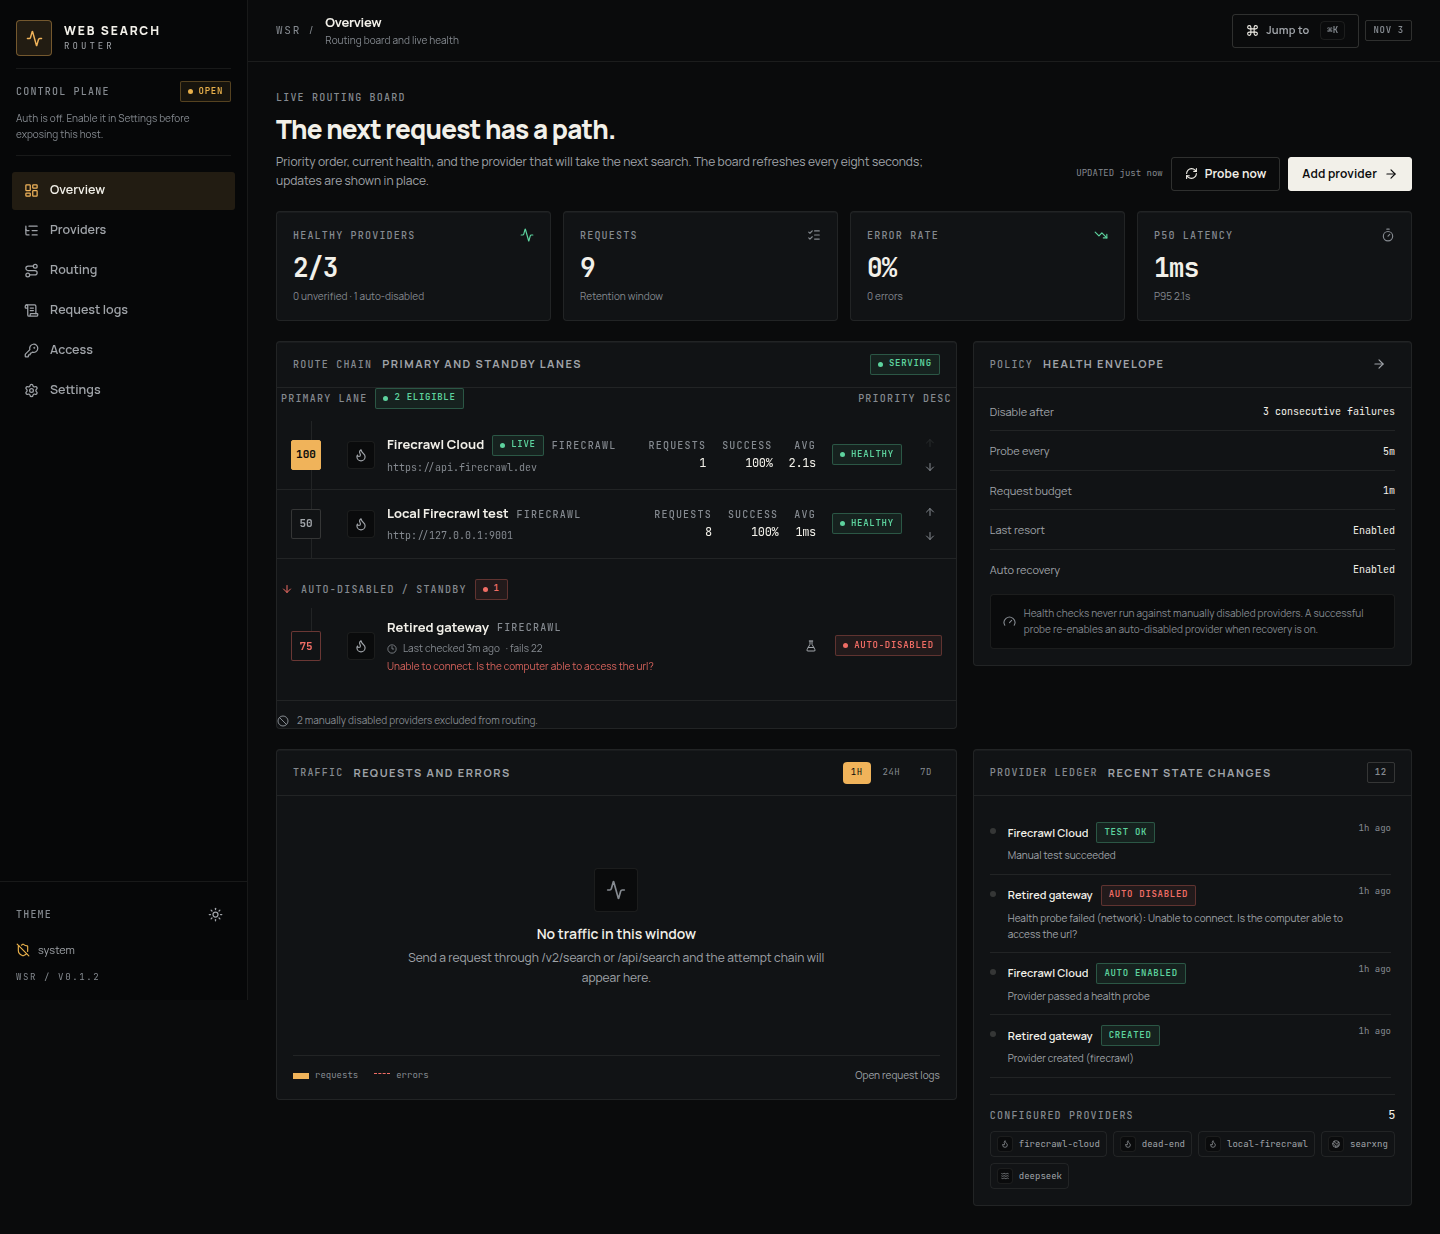
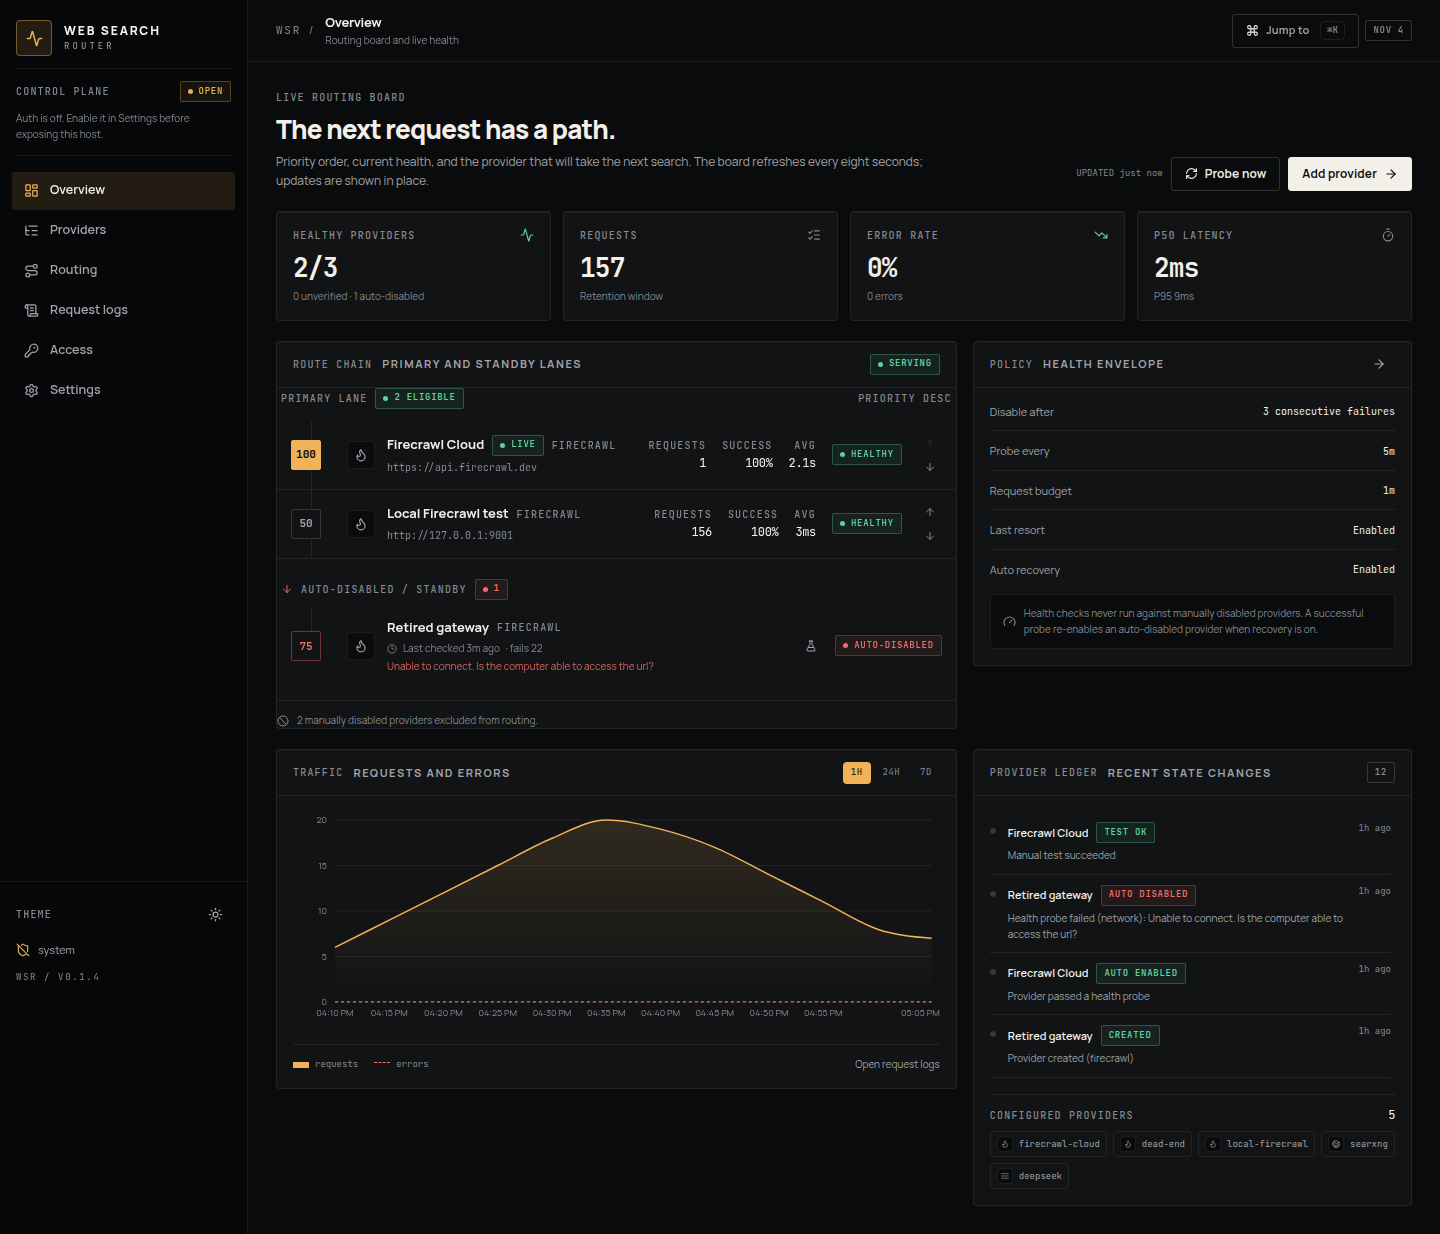
fix: keep the sidebar rail full height on long pages
The rail was a sticky 100vh element, so its ground and border stopped at
the viewport and a full-page capture showed the sidebar cut mid-page. Make
the rail a stretched grid column that reaches the page bottom and move the
sticky behavior to an inner wrapper, keeping the navigation pinned while
scrolling.

Add an E2E check that the rail covers the document height against a short
viewport, update the design and UI docs, and recapture the README overview
screenshot from the current build with seeded demo traffic.

diff --git a/src/client/components/Layout.tsx b/src/client/components/Layout.tsx
@@ -102,89 +102,91 @@ export function Layout({
         aria-label="Primary"
         aria-hidden={isMobile && !mobileOpen ? true : undefined}
       >
-        <div className="flex items-center justify-between px-4 pb-3 pt-5">
-          <button
-            onClick={() => navigate("overview")}
-            className="group flex items-center gap-3 text-left"
-            aria-label="Web Search Router home"
-          >
-            <span className="grid h-9 w-9 place-items-center rounded-sm border border-accent/40 bg-accent-soft">
-              <Activity size={17} className="text-accent" />
-            </span>
-            <span>
-              <span className="block text-[12px] font-extrabold tracking-[0.16em] text-ink">
-                WEB SEARCH
+        <div className="rail-inner">
+          <div className="flex items-center justify-between px-4 pb-3 pt-5">
+            <button
+              onClick={() => navigate("overview")}
+              className="group flex items-center gap-3 text-left"
+              aria-label="Web Search Router home"
+            >
+              <span className="grid h-9 w-9 place-items-center rounded-sm border border-accent/40 bg-accent-soft">
+                <Activity size={17} className="text-accent" />
               </span>
-              <span className="block font-mono text-[9px] tracking-[0.34em] text-muted">ROUTER</span>
-            </span>
-          </button>
-          <button
-            className="btn btn-ghost btn-icon hidden max-[980px]:inline-flex"
-            onClick={() => setMobileOpen(false)}
-            aria-label="Close navigation"
-          >
-            <X size={17} />
-          </button>
-        </div>
-
-        <div className="mx-4 mb-4 border-y border-line py-3">
-          <div className="flex items-center justify-between">
-            <span className="mono-label">Control plane</span>
-            <Badge tone={authState?.enabled ? "ok" : "warn"} dot>
-              {authState?.enabled ? "secured" : "open"}
-            </Badge>
-          </div>
-          <p className="mt-2 text-[10px] leading-relaxed text-dim">
-            {authState?.enabled
-              ? "Session and API key enforcement is active."
-              : "Auth is off. Enable it in Settings before exposing this host."}
-          </p>
-        </div>
-
-        <nav className="flex-1 space-y-0.5 px-3" aria-label="Primary">
-          {NAV_ITEMS.map((item, index) => {
-            const Icon = item.icon;
-            return (
-              <button
-                key={item.tab}
-                data-first-nav={index === 0 ? true : undefined}
-                onClick={() => navigate(item.tab)}
-                className={`nav-item w-full ${activeTab === item.tab ? "active" : ""}`}
-                aria-current={activeTab === item.tab ? "page" : undefined}
-                title={item.hint}
-              >
-                <Icon size={15} />
-                <span className="flex-1 text-left">{item.label}</span>
-              </button>
-            );
-          })}
-        </nav>
-
-        <div className="space-y-3 border-t border-line p-4">
-          <div className="flex items-center justify-between">
-            <span className="mono-label">Theme</span>
-            <button className="btn btn-ghost btn-icon" onClick={toggle} aria-label="Toggle theme">
-              {theme === "dark" ? <Sun size={15} /> : <Moon size={15} />}
+              <span>
+                <span className="block text-[12px] font-extrabold tracking-[0.16em] text-ink">
+                  WEB SEARCH
+                </span>
+                <span className="block font-mono text-[9px] tracking-[0.34em] text-muted">ROUTER</span>
+              </span>
+            </button>
+            <button
+              className="btn btn-ghost btn-icon hidden max-[980px]:inline-flex"
+              onClick={() => setMobileOpen(false)}
+              aria-label="Close navigation"
+            >
+              <X size={17} />
             </button>
           </div>
-          <div className="flex items-center justify-between gap-2">
-            <div className="flex min-w-0 items-center gap-2">
-              {authState?.enabled ? (
-                <ShieldCheck size={14} className="shrink-0 status-ok" />
-              ) : (
-                <ShieldOff size={14} className="shrink-0 status-warn" />
-              )}
-              <span className="truncate text-[11px] text-muted">
-                {authState?.user?.username ?? "not signed in"}
-              </span>
+
+          <div className="mx-4 mb-4 border-y border-line py-3">
+            <div className="flex items-center justify-between">
+              <span className="mono-label">Control plane</span>
+              <Badge tone={authState?.enabled ? "ok" : "warn"} dot>
+                {authState?.enabled ? "secured" : "open"}
+              </Badge>
             </div>
-            {authState?.enabled ? (
-              <button className="btn btn-ghost btn-icon" onClick={onLogout} aria-label="Sign out">
-                <LogOut size={14} />
-              </button>
-            ) : null}
+            <p className="mt-2 text-[10px] leading-relaxed text-dim">
+              {authState?.enabled
+                ? "Session and API key enforcement is active."
+                : "Auth is off. Enable it in Settings before exposing this host."}
+            </p>
           </div>
-          <p className="font-mono text-[9px] tracking-[0.18em] text-dim">WSR / V{APP_VERSION}</p>
+
+          <nav className="flex-1 space-y-0.5 px-3" aria-label="Primary">
+            {NAV_ITEMS.map((item, index) => {
+              const Icon = item.icon;
+              return (
+                <button
+                  key={item.tab}
+                  data-first-nav={index === 0 ? true : undefined}
+                  onClick={() => navigate(item.tab)}
+                  className={`nav-item w-full ${activeTab === item.tab ? "active" : ""}`}
+                  aria-current={activeTab === item.tab ? "page" : undefined}
+                  title={item.hint}
+                >
+                  <Icon size={15} />
+                  <span className="flex-1 text-left">{item.label}</span>
+                </button>
+              );
+            })}
+          </nav>
+
+          <div className="space-y-3 border-t border-line p-4">
+            <div className="flex items-center justify-between">
+              <span className="mono-label">Theme</span>
+              <button className="btn btn-ghost btn-icon" onClick={toggle} aria-label="Toggle theme">
+                {theme === "dark" ? <Sun size={15} /> : <Moon size={15} />}
+              </button>
+            </div>
+            <div className="flex items-center justify-between gap-2">
+              <div className="flex min-w-0 items-center gap-2">
+                {authState?.enabled ? (
+                  <ShieldCheck size={14} className="shrink-0 status-ok" />
+                ) : (
+                  <ShieldOff size={14} className="shrink-0 status-warn" />
+                )}
+                <span className="truncate text-[11px] text-muted">
+                  {authState?.user?.username ?? "not signed in"}
+                </span>
+              </div>
+              {authState?.enabled ? (
+                <button className="btn btn-ghost btn-icon" onClick={onLogout} aria-label="Sign out">
+                  <LogOut size={14} />
+                </button>
+              ) : null}
+            </div>
+            <p className="font-mono text-[9px] tracking-[0.18em] text-dim">WSR / V{APP_VERSION}</p>
+          </div>
         </div>
       </aside>
 

diff --git a/tests/e2e/dashboard.spec.ts b/tests/e2e/dashboard.spec.ts
@@ -18,6 +18,24 @@ test("overview shows the live route chain and provider health", async ({ page })
   expect(errors).toEqual([]);
 });
 
+test("the rail spans the full page height on long pages", async ({ page }) => {
+  await page.setViewportSize({ width: 1440, height: 560 });
+  await page.goto("/#/overview");
+  await expect(page.getByRole("heading", { name: "The next request has a path." })).toBeVisible();
+  await expect(page.getByText("Primary Firecrawl", { exact: true }).first()).toBeVisible();
+
+  const rail = page.locator("#primary-navigation");
+  const railBox = await rail.boundingBox();
+  const shellBox = await page.locator(".app-shell").boundingBox();
+  const pageHeight = await page.evaluate(() => document.documentElement.scrollHeight);
+
+  expect(pageHeight).toBeGreaterThan(560);
+  expect(railBox).not.toBeNull();
+  expect(shellBox).not.toBeNull();
+  expect(railBox!.height).toBeGreaterThanOrEqual(pageHeight - 1);
+  expect(Math.abs(railBox!.height - shellBox!.height)).toBeLessThanOrEqual(1);
+});
+
 test("provider CRUD, test, disable, and delete work from the dashboard", async ({ page }) => {
   await page.goto("/#/providers");
   await expect(page.getByText(/1,000 credits/).first()).toBeVisible();

diff --git a/src/client/index.css b/src/client/index.css
@@ -125,16 +125,23 @@
     min-height: 100vh;
   }
 
+  /* The rail is a stretched grid column so its ground reaches the page bottom;
+     the navigation inside stays sticky to the viewport. */
   .rail {
+    position: relative;
+    background: color-mix(in srgb, var(--rail) 92%, transparent);
+    border-right: 1px solid var(--line);
+    z-index: 30;
+    backdrop-filter: blur(16px);
+  }
+
+  .rail-inner {
     position: sticky;
     top: 0;
     height: 100vh;
-    background: color-mix(in srgb, var(--rail) 92%, transparent);
-    border-right: 1px solid var(--line);
     display: flex;
     flex-direction: column;
-    z-index: 30;
-    backdrop-filter: blur(16px);
+    overflow-y: auto;
   }
 
   .main-shell {

diff --git a/docs/screenshots/README.md b/docs/screenshots/README.md
@@ -6,12 +6,12 @@ These PNGs are evidence of the dashboard at a specific build, not design source 
 
 | Field | Value |
 |---|---|
-| Captured | 2026-11-03T17:12:53Z |
-| Source | v0.1.2 working tree (captured before the release commit) |
+| Captured | 2026-11-04T16:07Z for `overview-dark.png`; 2026-11-03T17:12:53Z for the other files |
+| Source | v0.1.4 working tree for `overview-dark.png` (includes the full-height rail fix); v0.1.2 working tree for the other files |
 | Build | `bun run build`; served from `dist/` |
[6 lines of base64/hex data omitted]
 | Browser | Playwright, Chrome channel (same as E2E) |
 | Theme | Per file below; `localStorage["wsr-theme"]` set before load |
 | Motion | Screenshot mode disables CSS animations/transitions |
@@ -29,14 +29,19 @@ These PNGs are evidence of the dashboard at a specific build, not design source 
 | `access-desktop.png` | Dark | 1440 × 1000 | Viewport |
 | `settings-desktop.png` | Dark | 1440 × 1000 | Viewport |
 
+`overview-dark.png` is the README hero and has been recaptured at v0.1.4. The other files still show the v0.1.2 build captured on 2026-11-03, including the old rail that stopped at the viewport height; refresh them with the same steps when the dashboard changes need to be reflected everywhere.
+
 ## Data
 
-The screenshots use the local demo database at `/tmp/opencode/wsr-ui-data`, not production data:
+`overview-dark.png` was captured from a seeded copy of the local demo database. The other files still reflect the original 2026-11-03 demo data.
 
-- `Firecrawl Cloud` contains one real live smoke-test search. The API key is not shown; only the masked hint appears.
-- `Retired gateway` is a deliberately unreachable synthetic provider (`127.0.0.1:9999`) used to show auto-disabled standby state.
-- `Local Firecrawl test` points at a local mock upstream; `SearXNG fallback` and `DeepSeek Search` are manually disabled demo rows.
-- Request logs and provider events are demo traffic. The `2/3` healthy count reflects two healthy enabled providers and one auto-disabled provider at capture time.
+- The original demo data lives at `/tmp/opencode/wsr-ui-data`; the recapture copied it to `/tmp/wsr-shots/data` so the original stayed untouched.
+- Demo traffic in the last hour (156 seeded `POST /v2/search` rows) is attributed to `local-firecrawl`, the local Firecrawl mock on `127.0.0.1:9001`. It is illustrative traffic, not live upstream calls.
+- `Firecrawl Cloud` keeps the single real live smoke-test search from the earlier demo data. The API key is not shown; only the masked hint appears.
+- `Retired gateway` is a deliberately unreachable synthetic provider (`127.0.0.1:9999`) used to show auto-disabled standby state. Its failure count and event timestamps were set for the capture.
+- `Local Firecrawl test` points at the local mock upstream; `SearXNG fallback` and `DeepSeek Search` are manually disabled demo rows.
+- Provider events were moved into the last hour and scheduled probes were paused with a per-provider `probe_interval_seconds` override, so the board keeps its demo state while the capture runs.
+- The `2/3` healthy count reflects two healthy enabled providers and one auto-disabled provider at capture time.
 - Authentication is disabled, so the Access page shows the first-admin empty state.
 
 Do not treat names, counts, latencies, or event timestamps as production benchmarks.
@@ -47,7 +52,8 @@ Do not treat names, counts, latencies, or event timestamps as production benchma
 2. Serve the same `dist/` with the current server and open the pages against it.
 3. Use a 1440 × 1000 viewport for desktop and 390 × 844 for mobile; set `localStorage["wsr-theme"]` to `dark` or `light` before load.
 4. Wait for fonts and initial API data, then screenshot with animations disabled.
-5. Update the build hashes, capture time, and file table above.
+5. For the overview, seed traffic inside the last hour and pause scheduled probes first, or the chart stays empty and the board changes state mid-capture.
+6. Update the build hashes, capture time, and file table above.
 
 `overview-dark.png`, `overview-desktop.png`, and `overview-mobile.png` are full-page. The remaining desktop pages are viewport captures so tables stay at their designed density.
 

diff --git a/docs/testing.md b/docs/testing.md
@@ -6,7 +6,7 @@ The test strategy has three layers:
 
 1. **Unit** — pure logic and services: settings validation, secret encryption, routing selection, auth, key hashing, logger redaction, and timeseries bounds.
 2. **Integration** — the real Elysia app against real SQLite and a local mock upstream, covering routing, failover, recovery, adapters, auth enforcement, rate limiting, migration, and management APIs.
-3. **Browser E2E** — Playwright against a built dashboard and a seeded server, covering provider CRUD, policy persistence, reorder, logs, command palette, mobile overflow and drawer focus behavior, and the auth enable/login/disable flow including the disable confirmation.
+3. **Browser E2E** — Playwright against a built dashboard and a seeded server, covering provider CRUD, policy persistence, reorder, logs, command palette, the full-height rail, mobile overflow and drawer focus behavior, and the auth enable/login/disable flow including the disable confirmation.
 
 Every layer uses an isolated data directory. No test reads or writes `data/` in the repository.
 

diff --git a/docs/ui.md b/docs/ui.md
@@ -60,7 +60,7 @@ Shell:
 3. The `tab === ...` switch in `src/client/App.tsx`.
 4. The command palette `ITEMS` in `src/client/components/CommandPalette.tsx`.
 
-The sidebar is fixed above 980 px and becomes a drawer at 980 px and below. The closed drawer is `inert` and `aria-hidden`; the hamburger exposes `aria-expanded`/`aria-controls`, opening moves focus to the first nav item, Escape closes the drawer, and focus returns to the hamburger. The top bar shows the active page title, description, a command-palette button, and a date badge.
+The sidebar rail spans the full page height above 980 px, with its navigation sticky to the viewport, and becomes a drawer at 980 px and below. The closed drawer is `inert` and `aria-hidden`; the hamburger exposes `aria-expanded`/`aria-controls`, opening moves focus to the first nav item, Escape closes the drawer, and focus returns to the hamburger. The top bar shows the active page title, description, a command-palette button, and a date badge.
 
 ### Data loading
 

diff --git a/docs/design.md b/docs/design.md
@@ -43,7 +43,7 @@ Fixed rem scale; no fluid display type. Page titles use tight tracking (`-0.03em
 
 ## Layout
 
-- `app-shell`: 248px sticky rail + fluid main column. Max content width 1480px, 28px page padding.
+- `app-shell`: 248px rail + fluid main column. The rail ground spans the full page height; its navigation is sticky to the viewport. Max content width 1480px, 28px page padding.
 - Top bar: 62px sticky, blurred ground, page title/description, command palette, date badge.
 - Panel: 4px radius, 1px hairline, 46px header, 16px body.
 - Stats: two columns on mobile, four on desktop.
